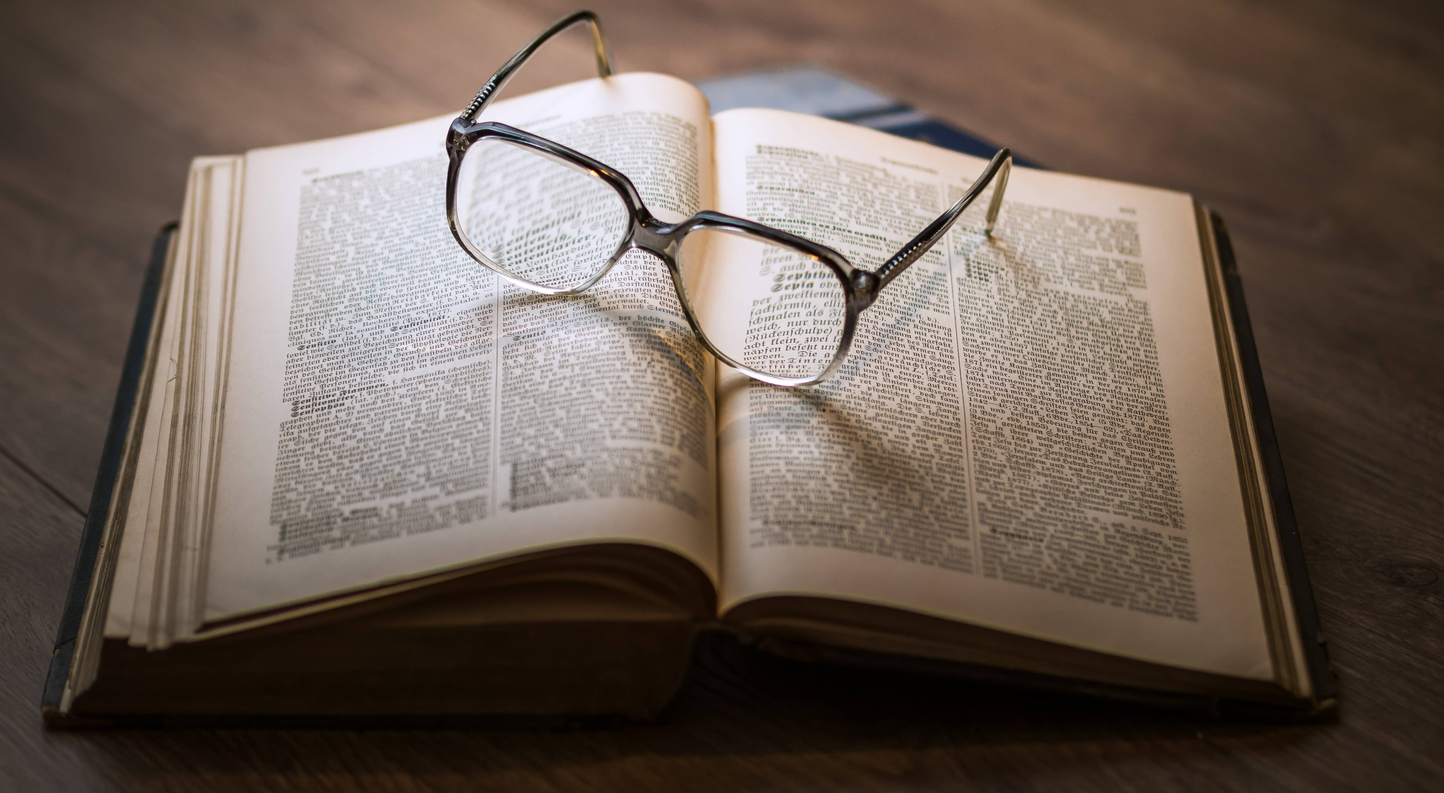
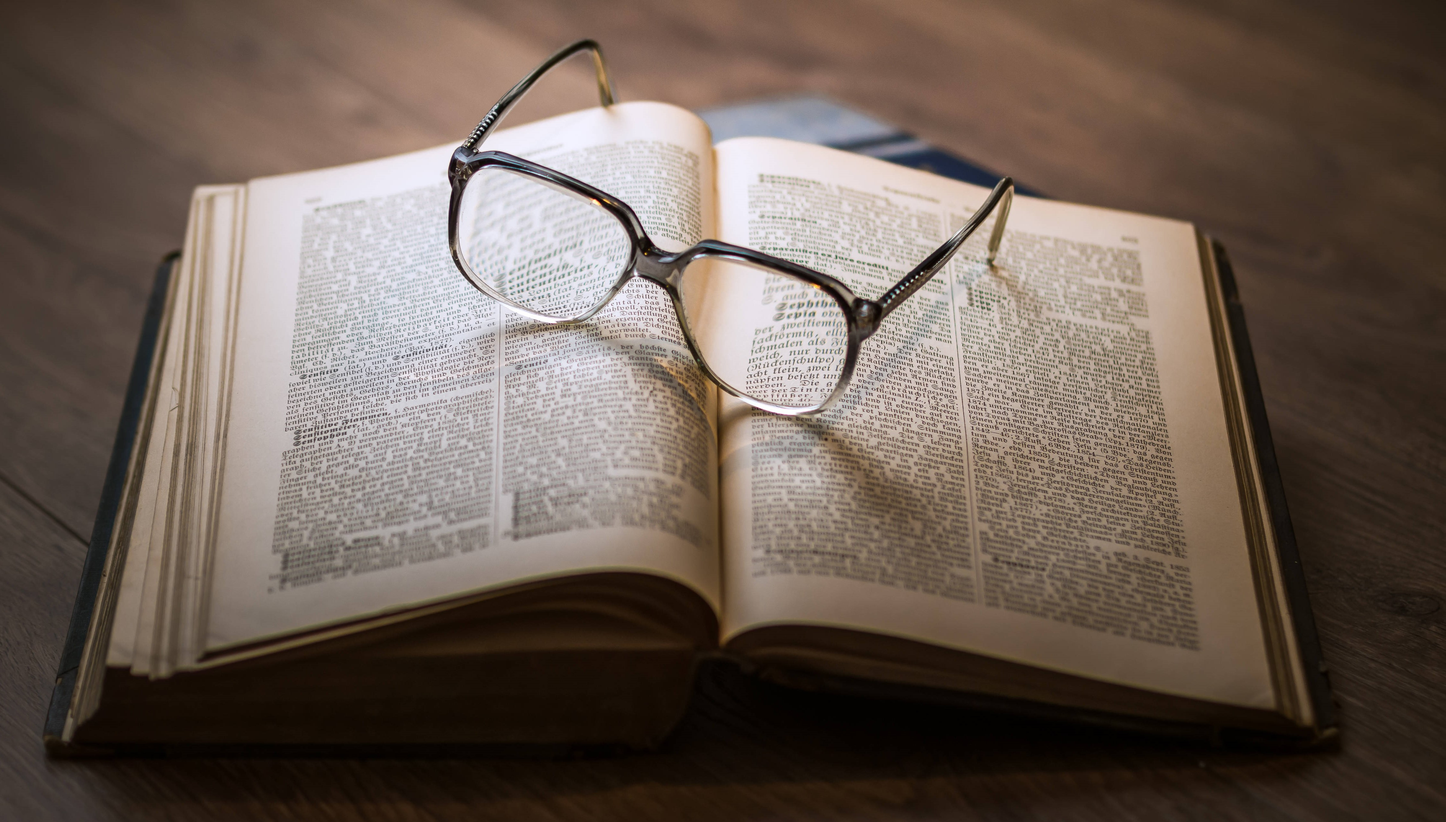
Background image in homepage updated. ORCID is not mandatory anymore.

diff --git a/app/assets/stylesheets/general.css b/app/assets/stylesheets/general.css
@@ -119,14 +119,14 @@ body.bg-gray-dark input {
 	justify-content: center;
 	flex-direction: column;
 	text-align: center;
-	background-color: rgba(70, 127, 191, 0.5);
+	background-color: rgba(70, 127, 191, 0.75);
 	background-image: url("/assets/book.jpg");
 	background-size: cover;
 	font-weight: bolder;
 }
 
 .jumbotron .container {
-	background-color: rgba(70, 127, 191, 0.5);
+	background-color: rgba(70, 127, 191, 0.75);
 	color: #fff;
 }
 

diff --git a/app/models/user.rb b/app/models/user.rb
@@ -3,7 +3,7 @@ class User < ApplicationRecord
 	has_many :ratings, dependent: :destroy
 
 	validates :email, presence: true, length: {maximum: 255}, format: {with: /\A[\w+\-.]+@[a-z\d\-.]+\.[a-z]+\z/i}, uniqueness: {case_sensitive: false}
-	validates :orcid, length: {maximum: 19}, format: {with: /[0-9]{4}-[0-9]{4}-[0-9]{4}-([0-9]{3}X|[0-9]{4})/}, uniqueness: true, allow_nil: true
+	validates :orcid, length: {maximum: 19}, format: {with: /[0-9]{4}-[0-9]{4}-[0-9]{4}-([0-9]{3}X|[0-9]{4})/}, allow_blank: true, uniqueness: true
 
 	# PASSWORD HANDLING
 
